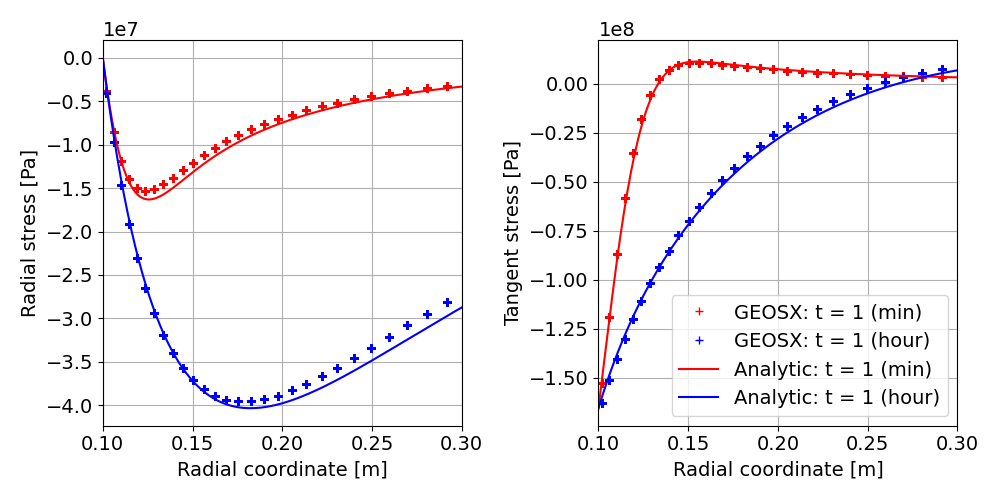
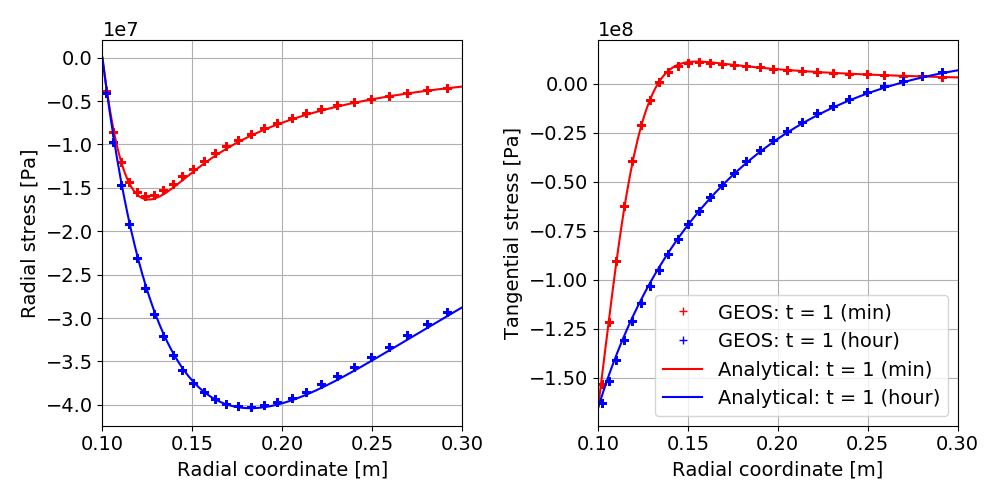
Updated thermo-poro-elastic wellbore problem (#2412)
* updated xml files for THM well

* updated python scripts and figures

* fixed bug in linear solver (MGR) for poromechanics problems

* updated integratedTests submodule

---------

diff --git a/src/docs/sphinx/advancedExamples/validationStudies/wellboreProblems/thermoPoroElasticWellbore/THM_wellbore_stress.py b/src/docs/sphinx/advancedExamples/validationStudies/wellboreProblems/thermoPoroElasticWellbore/THM_wellbore_stress.py
@@ -14,7 +14,7 @@ def stressRotation(stress, phi_x):
 
 def main():
 	# Material properties from input XML file
-	xmlFilePathPrefix = "../../../../../../../inputFiles/wellbore/THM_wellbore"
+	xmlFilePathPrefix = "../../../../../../../inputFiles/wellbore/ThermoPoroElasticWellbore"
 
 	xmlData = analyticalResults.getDataFromXML(xmlFilePathPrefix)
 
@@ -76,26 +76,26 @@ def main():
 	plt.subplot(1,2,1)
 
 	plt.plot( rCoord,
-			  stress_rr_total[9, :],        
+			  stress_rr_total[10, :],        
 			  'r+',
-			  label='GEOSX: t = 1 (min)')
+			  label='GEOS: t = 1 (min)')
 
 	plt.plot( rCoord,
-			  stress_rr_total[23, :],        
+			  stress_rr_total[24, :],        
 			  'b+',
-			  label='GEOSX: t = 1 (hour)')
+			  label='GEOS: t = 1 (hour)')
 	
 	plt.subplot(1,2,2)
 
 	plt.plot( rCoord,
-			  stress_tt_total[9, :],        
+			  stress_tt_total[10, :],        
 			  'r+',
-			  label='GEOSX: t = 1 (min)')
+			  label='GEOS: t = 1 (min)')
 
 	plt.plot( rCoord,
-			  stress_tt_total[23, :],        
+			  stress_tt_total[24, :],        
 			  'b+',
-			  label='GEOSX: t = 1 (hour)')
+			  label='GEOS: t = 1 (hour)')
 	
 	# Plot analytical results at one minute
 	t = 60 #s
@@ -105,13 +105,13 @@ def main():
 	plt.plot( r_anal,
 			  sig_rr_anal,        
 			  'r-',
-			  label='Analytic: t = 1 (min)')
+			  label='Analytical: t = 1 (min)')
 
 	plt.subplot(1,2,2)
 	plt.plot( r_anal,
 			  sig_tt_anal,        
 			  'r-',
-			  label='Analytic: t = 1 (min)')
+			  label='Analytical: t = 1 (min)')
 
 	# Plot analytical results at one hour
 	t = 3600 #s
@@ -121,13 +121,13 @@ def main():
 	plt.plot( r_anal,
 			  sig_rr_anal,        
 			  'b-',
-			  label='Analytic: t = 1 (hour)')
+			  label='Analytical: t = 1 (hour)')
 
 	plt.subplot(1,2,2)
 	plt.plot( r_anal,
 			  sig_tt_anal,        
 			  'b-',
-			  label='Analytic: t = 1 (hour)')
+			  label='Analytical: t = 1 (hour)')
 
 	plt.subplot(1,2,1)
 	plt.grid()
@@ -138,7 +138,7 @@ def main():
 
 	plt.subplot(1,2,2)
 	plt.grid()
-	plt.ylabel('Tangent stress [Pa]')
+	plt.ylabel('Tangential stress [Pa]')
 	plt.xlabel('Radial coordinate [m]')
 	plt.xlim(0.1,0.3)
 	#plt.ylim(0,70e6)

diff --git a/src/coreComponents/physicsSolvers/multiphysics/MultiphasePoromechanics.hpp b/src/coreComponents/physicsSolvers/multiphysics/MultiphasePoromechanics.hpp
@@ -28,14 +28,14 @@
 namespace geos
 {
 
-// Note that in the current implementation, the order of the templates in CoupledSolver< ... > matters
-// We put CompositionalMultiphaseBase first to start with a flow solve in the sequential option
-class MultiphasePoromechanics : public CoupledSolver< CompositionalMultiphaseBase,
-                                                      SolidMechanicsLagrangianFEM >
+// Note that in the current implementation, the order of the templates in CoupledSolver< ... > matters a lot
+// Changing the order of these templates can break a lot of things (labels in MGR for instance) and must be done carefully
+class MultiphasePoromechanics : public CoupledSolver< SolidMechanicsLagrangianFEM,
+                                                      CompositionalMultiphaseBase >
 {
 public:
 
-  using Base = CoupledSolver< CompositionalMultiphaseBase, SolidMechanicsLagrangianFEM >;
+  using Base = CoupledSolver< SolidMechanicsLagrangianFEM, CompositionalMultiphaseBase >;
   using Base::m_solvers;
   using Base::m_dofManager;
   using Base::m_localMatrix;
@@ -44,8 +44,8 @@ public:
 
   enum class SolverType : integer
   {
-    Flow = 0,
-    SolidMechanics = 1
+    SolidMechanics = 0,
+    Flow = 1
   };
 
   /// String used to form the solverName used to register solvers in CoupledSolver

diff --git a/src/docs/sphinx/advancedExamples/validationStudies/wellboreProblems/thermoPoroElasticWellbore/THM_wellbore_displacement.py b/src/docs/sphinx/advancedExamples/validationStudies/wellboreProblems/thermoPoroElasticWellbore/THM_wellbore_displacement.py
@@ -16,8 +16,8 @@ def main():
 	nNodes = center.shape[1]
 	xCoord = center[0, 0:nNodes, 0]
 	yCoord = center[0, 0:nNodes, 1]	
-	ux_60s = displacement[9, 0:nNodes, 0] # the index for time step at 60s is 9
-	ux_3600s = displacement[23, 0:nNodes, 0] # the index for time step at 3600s is 23
+	ux_60s = displacement[10, 0:nNodes, 0] # the index for time step at 60s is 10
+	ux_3600s = displacement[24, 0:nNodes, 0] # the index for time step at 3600s is 24
 
 	rCoord, ur_60s, ur_3600s = [], [], []
 
@@ -33,12 +33,12 @@ def main():
 	plt.plot( rCoord,
 			  ur_60s,        
 			  'r+',
-			  label='GEOSX: t = 1 (min)')
+			  label='GEOS: t = 1 (min)')
 
 	plt.plot( rCoord,
 			  ur_3600s,        
 			  'b+',
-			  label='GEOSX: t = 1 (hour)')
+			  label='GEOS: t = 1 (hour)')
 	
 	# Plot analytical results at one minute
 	t = 60 #s
@@ -47,7 +47,7 @@ def main():
 	plt.plot( r_anal,
 			  ur_anal * 1e6, # converted to um        
 			  'r-',
-			  label='Analytic: t = 1 (min)')
+			  label='Analytical: t = 1 (min)')
 
 	# Plot analytical results at one hour
 	t = 3600 #s
@@ -56,7 +56,7 @@ def main():
 	plt.plot( r_anal,
 			  ur_anal * 1e6, # converted to um        
 			  'b-',
-			  label='Analytic: t = 1 (hour)')
+			  label='Analytical: t = 1 (hour)')
 
 	plt.grid()
 	plt.ylabel(r'Displacement [$\mu$m]')

diff --git a/src/docs/sphinx/advancedExamples/validationStudies/wellboreProblems/thermoPoroElasticWellbore/THM_wellbore_temperature_pressure.py b/src/docs/sphinx/advancedExamples/validationStudies/wellboreProblems/thermoPoroElasticWellbore/THM_wellbore_temperature_pressure.py
@@ -27,23 +27,23 @@ def main():
 	plt.subplot(1,2,1)
 
 	plt.plot( rCoord,
-			  temperature[9, 0:nElements], # index of the time step at 60s is 9       
+			  temperature[10, 0:nElements], # index of the time step at 60s is 10       
 			  'r+',
-			  label='GEOSX: t = 1 (min)')
+			  label='GEOS: t = 1 (min)')
 
 	plt.plot( rCoord,
-			  temperature[23, 0:nElements], # index of the time step at 3600s is 23       
+			  temperature[24, 0:nElements], # index of the time step at 3600s is 24       
 			  'b+',
-			  label='GEOSX: t = 1 (hour)')
+			  label='GEOS: t = 1 (hour)')
 	
 	plt.subplot(1,2,2)
 
 	plt.plot( rCoord,
-			  pressure[9, 0:nElements],        
+			  pressure[10, 0:nElements],        
 			  'r+')
 
 	plt.plot( rCoord,
-			  pressure[23, 0:nElements],        
+			  pressure[24, 0:nElements],        
 			  'b+')
 	
 	# Plot analytical results at one minute
@@ -54,7 +54,7 @@ def main():
 	plt.plot( r_anal,
 			  T_anal,        
 			  'r-',
-			  label='Analytic: t = 1 (min)')
+			  label='Analytical: t = 1 (min)')
 
 	plt.subplot(1,2,2)
 	plt.plot( r_anal,
@@ -69,7 +69,7 @@ def main():
 	plt.plot( r_anal,
 			  T_anal,        
 			  'b-',
-			  label='Analytic: t = 1 (hour)')
+			  label='Analytical: t = 1 (hour)')
 
 	plt.subplot(1,2,2)
 	plt.plot( r_anal,

diff --git a/src/coreComponents/physicsSolvers/multiphysics/SinglePhasePoromechanics.hpp b/src/coreComponents/physicsSolvers/multiphysics/SinglePhasePoromechanics.hpp
@@ -26,12 +26,14 @@
 namespace geos
 {
 
-class SinglePhasePoromechanics : public CoupledSolver< SinglePhaseBase,
-                                                       SolidMechanicsLagrangianFEM >
+// Note that in the current implementation, the order of the templates in CoupledSolver< ... > matters a lot
+// Changing the order of these templates can break a lot of things (labels in MGR for instance) and must be done carefully
+class SinglePhasePoromechanics : public CoupledSolver< SolidMechanicsLagrangianFEM,
+                                                       SinglePhaseBase >
 {
 public:
 
-  using Base = CoupledSolver< SinglePhaseBase, SolidMechanicsLagrangianFEM >;
+  using Base = CoupledSolver< SolidMechanicsLagrangianFEM, SinglePhaseBase >;
   using Base::m_solvers;
   using Base::m_dofManager;
   using Base::m_localMatrix;
@@ -40,8 +42,8 @@ public:
 
   enum class SolverType : integer
   {
-    Flow = 0,
-    SolidMechanics = 1
+    SolidMechanics = 0,
+    Flow = 1
   };
 
   /// String used to form the solverName used to register solvers in CoupledSolver

diff --git a/src/coreComponents/linearAlgebra/interfaces/hypre/mgrStrategies/MultiphasePoromechanicsReservoirFVM.hpp b/src/coreComponents/linearAlgebra/interfaces/hypre/mgrStrategies/MultiphasePoromechanicsReservoirFVM.hpp
@@ -110,11 +110,8 @@ public:
     m_levelRestrictType[3]     = MGRRestrictionType::injection;
     m_levelCoarseGridMethod[3] = MGRCoarseGridMethod::cprLikeBlockDiag;
 
-    // ILU smoothing for the system made of pressure and densities
-    m_levelSmoothType[2]  = 16;
-    m_levelSmoothIters[2] = 1;
-    // Block GS smoothing for the system made of pressure and densities (except the last one)
-    m_levelSmoothType[3]  = 1;
+    // ILU smoothing for the system made of pressure and densities (except the last one)
+    m_levelSmoothType[3]  = 16;
     m_levelSmoothIters[3] = 1;
   }
 

diff --git a/src/docs/sphinx/advancedExamples/validationStudies/wellboreProblems/thermoPoroElasticWellbore/analyticalResults.py b/src/docs/sphinx/advancedExamples/validationStudies/wellboreProblems/thermoPoroElasticWellbore/analyticalResults.py
@@ -45,7 +45,7 @@ def getDataFromXML(xmlFilePathPrefix):
 	return [ri, Ti, drainedBulkModulusRock, defaultShearModulus, defaultThermalExpansionCoefficient, defaultReferencePorosity, grainBulkModulus, fluidCompressibility, fluidViscosity, fluidThermalExpansionCoefficient, permeability, thermalConductivity, volumetricHeatCapacity]
 
 def analyticalResults(t):
-	xmlFilePathPrefix = "../../../../../../../inputFiles/wellbore/THM_wellbore"
+	xmlFilePathPrefix = "../../../../../../../inputFiles/wellbore/ThermoPoroElasticWellbore"
 
 	xmlData = getDataFromXML(xmlFilePathPrefix)
 
